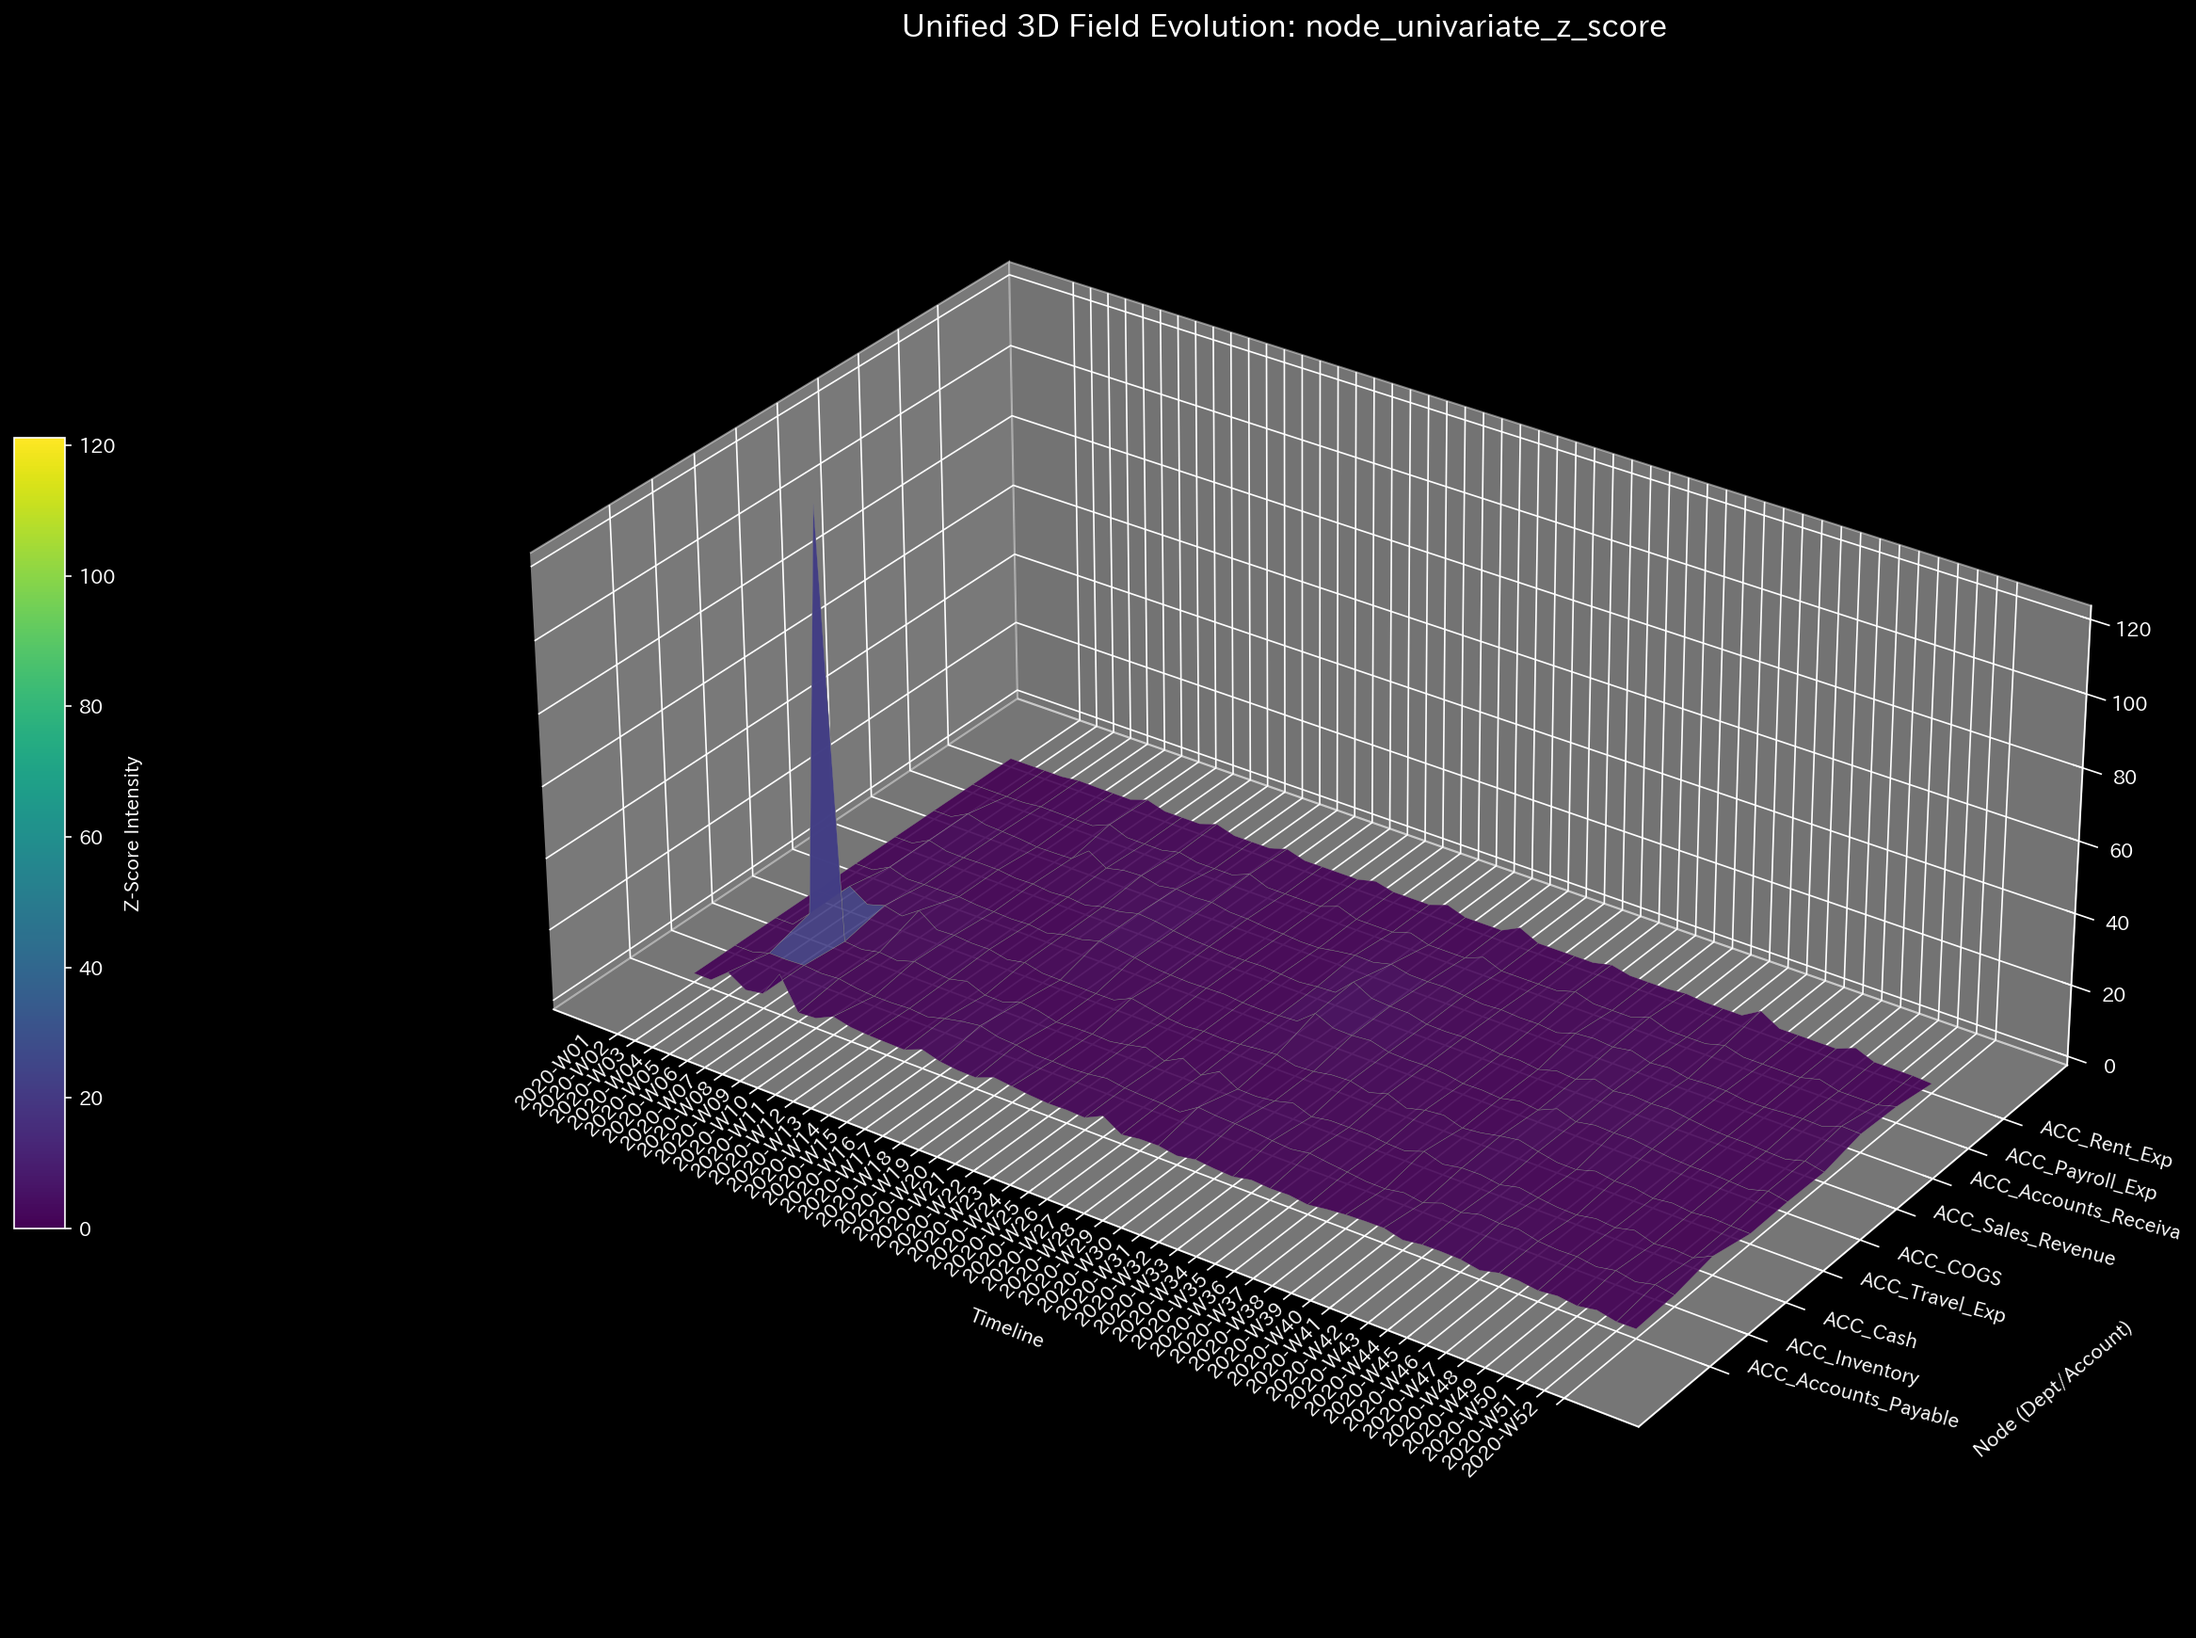
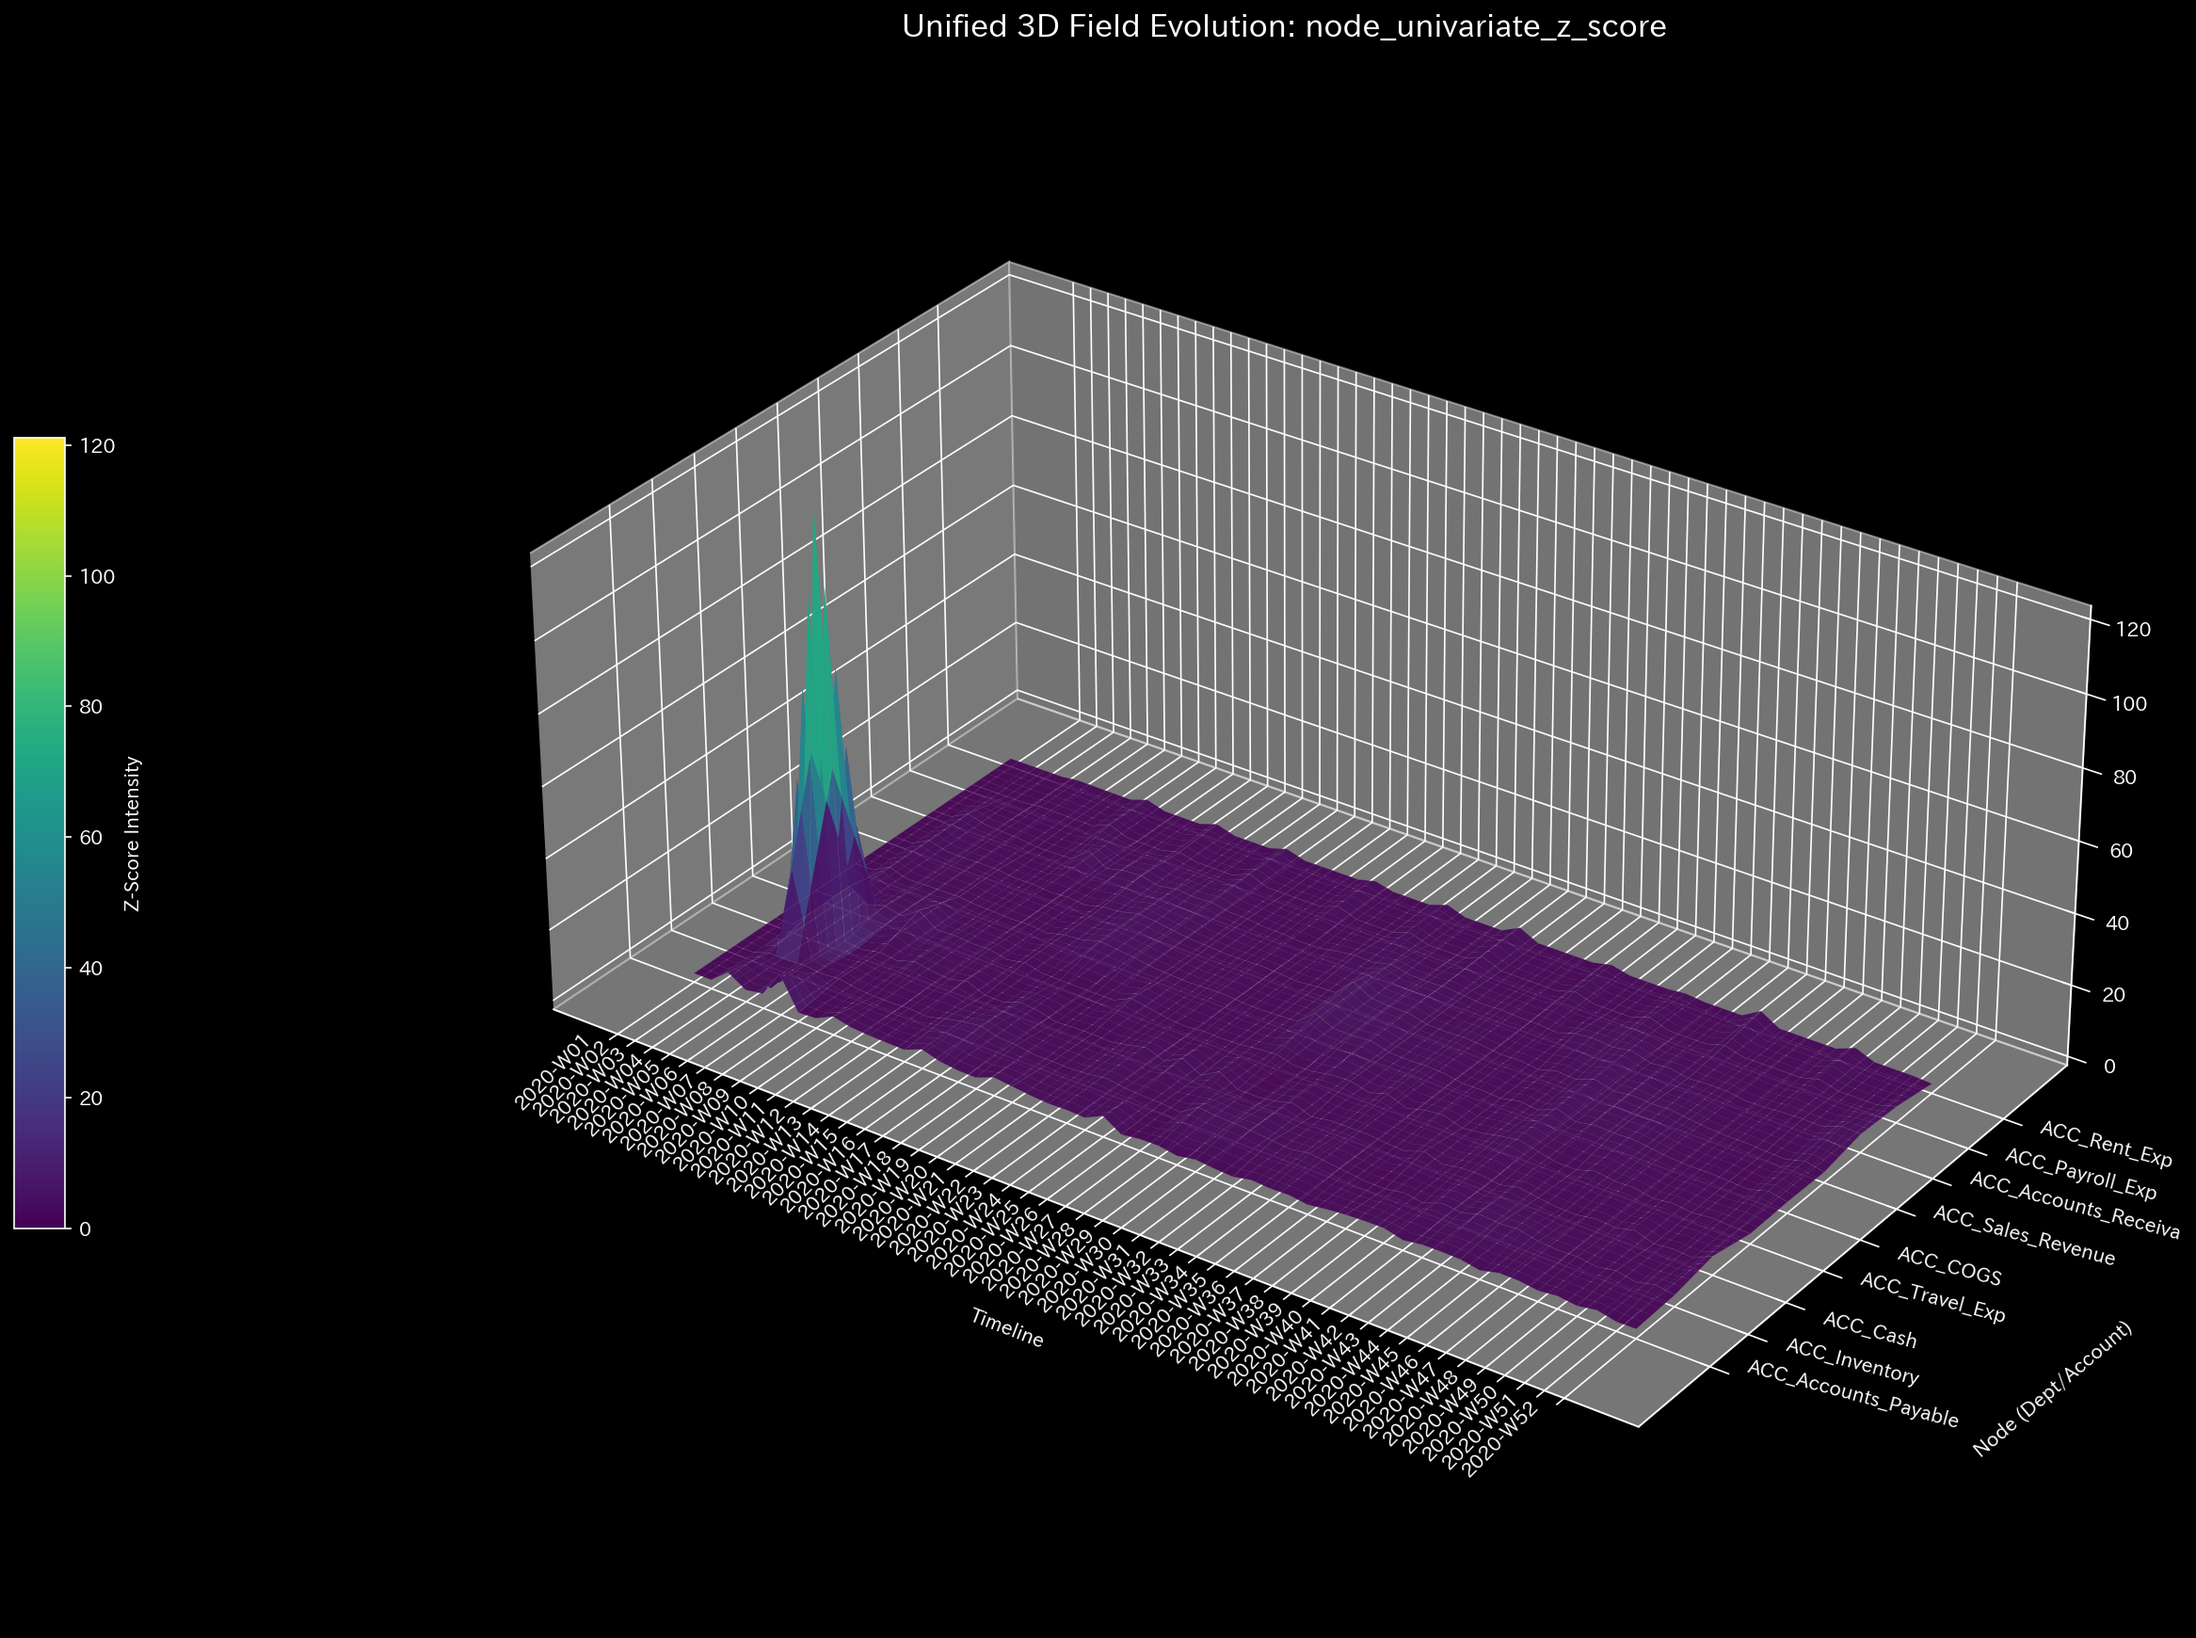
Somehow rollback documents for more dense 3D surface plot.

Changed region(s): [[0.3395, 0.3414, 0.4012, 0.5897]]

diff --git a/src/visualizations/_09_0_visualize_3D_surface_master.py b/src/visualizations/_09_0_visualize_3D_surface_master.py
@@ -7,6 +7,7 @@
 import sys
 import pandas as pd
 import numpy as np
+import scipy.interpolate as interp
 import matplotlib.pyplot as plt
 from mpl_toolkits.mplot3d import Axes3D
 
@@ -77,15 +78,37 @@ def main():
     fig = plt.figure(figsize=(18, 14))
     ax = fig.add_axes([0.15, 0.10, 0.80, 0.80], projection='3d')
 
-    T_mesh, N_mesh = np.meshgrid(np.arange(max_t), np.arange(max_n))
     norm = plt.Normalize(c_matrix.min(), c_matrix.max())
     
-    # Use smooth colormap interpolation across vertices instead of flat face colors
+    # ---------------------------------------------------------
+    # TLU High-Fidelity Upsampling Layer (Proof of Concept)
+    # Mitigates Matplotlib's internal Face-Averaging artifact
+    # by generating a 5x dense mesh using Bilinear Interpolation.
+    # ---------------------------------------------------------
+    k = 5
+    t_new = np.linspace(0, max_t - 1, (max_t - 1) * k + 1)
+    n_new = np.linspace(0, max_n - 1, (max_n - 1) * k + 1)
+    T_dense, N_dense = np.meshgrid(t_new, n_new)
+
+    spline_z = interp.RectBivariateSpline(range(max_n), range(max_t), z_matrix, kx=1, ky=1)
+    z_dense = spline_z(n_new, t_new)
+
+    spline_c = interp.RectBivariateSpline(range(max_n), range(max_t), c_matrix, kx=1, ky=1)
+    c_dense = spline_c(n_new, t_new)
+
+    # 1. Draw High-Res Surface without edges (pure smooth color gradient)
     surf = ax.plot_surface(
-        T_mesh, N_mesh, z_matrix, 
+        T_dense, N_dense, z_dense, 
         cmap=cmap, norm=norm,
         shade=False, antialiased=True, alpha=0.9,
-        linewidth=0.2, edgecolor=grid_col
+        edgecolor='none'
+    )
+    
+    # 2. Overlay Low-Res Original Grid (wireframe only)
+    T_orig, N_orig = np.meshgrid(np.arange(max_t), np.arange(max_n))
+    ax.plot_wireframe(
+        T_orig, N_orig, z_matrix, 
+        color=grid_col, linewidth=0.2, alpha=0.5
     )
     
     # Adjust viewing angle for better visibility of peaks

diff --git a/docs/ja/samples/Sample_0_Healthy/README.md b/docs/ja/samples/Sample_0_Healthy/README.md
@@ -27,7 +27,7 @@
   * **💡 可視化グラフの読解の仕方（Visual Cues）:** ミクロ Z-Score 3D Surface をご覧ください。背景の **暗い紫色（Dark Purple）** は Z-Score が低く安定している正常な領域を示します。その中に、単一の頂点（`2020-W04`, `ACC_Cash`）だけが **青紫色の鋭い尖塔（Spike）** として強烈にそびえ立っています。これは、特定の時間と特定のノードにおいて、過去の分散からは予測不可能な「極度の数学的ショック」が発生したことを物理的に証明しています。
 
 ### 3. フォレンジック・ケーススタディ：異常の追跡と原因究明
-ダミーデータに混入したこの「青紫色の特異点（尖塔）」は、TLUの数理解析能力を証明する完璧な事例です。なぜ異常が発生し、それをどのように検証できるのか、元のダミー・データ（`Dummy_Journal_Stream.csv`）まで遡って追跡します。
+ダミーデータに混入したこの「黄色い特異点（異常）」は、TLUの数理解析能力を証明する完璧な事例です。なぜ異常が発生し、それをどのように検証できるのか、元のダミー・データ（`Dummy_Journal_Stream.csv`）まで遡って追跡します。
 
 1. **異常の発生地点の特定 (セマンティック・ハイドレーション):**
    TLUの出力データ（`output_data/result.002_2_2_filter_micro_forensics.analysis.csv`）には、自動的にセマンティック・ハイドレーション（ドメインラベルの付与）が施されています。
@@ -40,5 +40,5 @@
    さらに重要なのは、翌月（2020年2月25日の第9週）にさらに大きな $32,897 の現金流出があったにもかかわらず、その時の Z-Score はわずか **2.28** と正常範囲に収まっている点です。TLUは初回のショックを経験したことで、このシステムには「月に一度、巨大な現金流出の波が来る」という構造的リズムを学習・適応したのです。
 
 **【結論】**
-この青紫色の尖塔の出現は「バグ」や「不正」ではありません。数理解析が、**「システム稼働後初の未知のイベント（初期給与ショック）を正確に捕捉し、その後そのリズムを学習して適応した」**という極めて高度な挙動の完璧な証明（Proof of Concept）です。
-以後のサンプル（Sample 1〜9）における比較では、この「初期稼働ショック（青紫色の単一ピーク）」を健全なビジネスの「鼓動の始まり」として捉え、それとは全く異なるパターンで発生する異常（不正や病理）との落差に注目してください。
+この黄色い発光は「バグ」や「不正」ではありません。数理解析が、**「システム稼働後初の未知のイベント（初期給与ショック）を正確に捕捉し、その後そのリズムを学習して適応した」**という極めて高度な挙動の完璧な証明（Proof of Concept）です。
+以後のサンプル（Sample 1〜9）における比較では、この「初期稼働ショック（黄色の単一スポット）」を健全なビジネスの「鼓動の始まり」として捉え、それとは全く異なるパターンで発生する異常（不正や病理）との落差に注目してください。

diff --git a/docs/ja/samples/Sample_2_Embezzlement_Leak/README.md b/docs/ja/samples/Sample_2_Embezzlement_Leak/README.md
@@ -46,8 +46,8 @@
     * **【🔴 本サンプルの異常状態】**
     ![Sample 2 Micro Z-Score 3D Surface](../../../../samples/Sample_2_Embezzlement_Leak/readme_plots/002_2_2_2__micro_Z_Score_3d_surface.png)
     * **💡 可視化グラフの読解の仕方（Visual Cues）:** 
-      * **🟢 正常系（Sample 0）では:** 背景は暗い紫色（Dark Purple）に保たれ、第4週の現金ノードにのみ「初期稼働ショック（給与支払い）」を示す青紫色のピークが1つだけ存在します。
-      * **🔴 本サンプルの異常:** 3D Surface 上で、正常系の「初期稼働ショック」とは全く別のノード（勘定科目）に、青紫色の強烈な尖塔（Spike）がそびえ立っています。これが、横領された資金が投棄されている正確な口座（アカウント）を物理的に特定しています。
+      * **🟢 正常系（Sample 0）では:** 背景は暗い紫色（Dark Purple）に保たれ、第4週の現金ノードにのみ「初期稼働ショック（給与支払い）」を示す黄色（Yellow）のスポットが1つだけ存在します。
+      * **🔴 本サンプルの異常:** 3D Surface 上で、正常系の「初期稼働ショック」とは全く別のノード（勘定科目）に、明るい黄色（Yellow）の強烈な異常発光が存在します。これが、横領された資金が投棄されている正確な口座（アカウント）を物理的に特定しています。
 
 * **財務的証拠:** 
   貸借対照表（B/S）は均衡しており（`is_balanced: true`）、会社は $58,488 の純利益を計上しています。しかし、物理指標は、合法的な資産が「合法的な経費」（例：架空のベンダーへの支払いや水増しされた出張費）を装ってネットワーク外へ流出し、窃盗が通常のビジネス活動の背後に隠蔽されていることを証明しています。

diff --git a/docs/ja/samples/Sample_8_fMRI_Stroke/README.md b/docs/ja/samples/Sample_8_fMRI_Stroke/README.md
@@ -29,8 +29,8 @@
 * **【🔴 本サンプルの異常状態】**
 ![Z-Score 3D Surface](../../../../samples/Sample_8_fMRI_Stroke/plots/002_2_2_2__micro_Z_Score_3d_surface.png)
 * **💡 可視化グラフの読解の仕方（Visual Cues）:** 
-  * **🟢 正常系（Sample 0）では:** 背景は暗い紫色（Dark Purple）に保たれ、第4週の現金ノードにのみ「初期稼働ショック（給与支払い）」を示す青紫色のピークが1つだけ存在します。
-  * **🔴 本サンプルの異常:** 3D Surface 上で、青紫色の極端な尖塔（Spike）が孤立して立っている箇所を探してください。これが、数学的特異点（物理的な血栓/閉塞）の正確な空間座標をピンポイントで示しています。
+  * **🟢 正常系（Sample 0）では:** 背景は暗い紫色（Dark Purple）に保たれ、第4週の現金ノードにのみ「初期稼働ショック（給与支払い）」を示す黄色（Yellow）のスポットが1つだけ存在します。
+  * **🔴 本サンプルの異常:** 3D Surface 上で、極端に明るい黄色（Yellow）で発光している孤立したセルを探してください。これが、数学的特異点（物理的な血栓/閉塞）の正確な空間座標をピンポイントで示しています。
 
 ### 🔋 2. 熱力学的エネルギーの枯渇 (横領/漏洩)
 * **相対的自由エネルギー比率:** `-2.1742` (閾値: -0.1)
